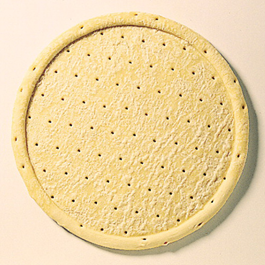
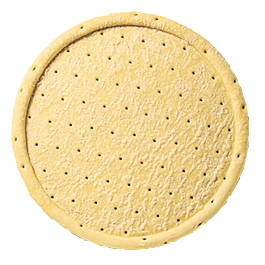
Auto stash before merge of "master" and "origin/master"

diff --git a/index.html b/index.html
@@ -8,23 +8,13 @@
 
 <body>
     <div id='oasisPizza'>
-        <ul>
-            <li id="logo">Logo</li>
-            <li>
-                <a href="#">Meat Lovers</a>
-            </li>
-            <li>
-                <a href="#">Pepperoni Lovers</a>
-            </li>
-            <li>
-                <a href="#">Hawaiian</a>
-            </li>
-            <li>
-                <a href="#">Supreme</a>
-            </li>
-            <li>
-                <a href="#">The Beast</a>
-            </li>
+        <ul id='nav'>
+            <li id='start'><img id='logo' src="Images/Logo/OasisPizza.png" /></li>
+            <li><a href="#">Meat Lovers</a></li>
+            <li><a href="#">Pepperoni Lovers</a></li>
+            <li><a href="#">Hawaiian</a></li>
+            <li><a href="#">Supreme</a></li>
+            <li><a href="#">The Beast</a></li>
         </ul>
 
         <div id="mainContainer">

diff --git a/style.css b/style.css
@@ -12,7 +12,7 @@ ul {
 
 li {
     float: left;
-    width: 18%; 
+    width: 18%;
 }
 
 li a {
@@ -27,9 +27,18 @@ li a:hover {
     background-color: rgb(218, 172, 172);
 }
 
-#logo{
-    color: white;
+#nav {
+    height: 2%;
+}
+
+#start {
     width: 10%;
+    height: 100%;
+}
+
+#logo {
+    height: 30%;
+    width: 30%;
 }
 
 #mainContainer {
@@ -43,6 +52,7 @@ li a:hover {
 
 #rightContainer {
     width: 50%;
+    height: 100%;
 }
 
 #buttons {
@@ -60,6 +70,11 @@ li a:hover {
 #pizza {
     padding: 7px;
     margin: 7px;
+    background-image: url(Images/Crust/Crust.png);
+    background-size: cover;
+    height: 350px;
+    width: 350px;
+    background-repeat: no-repeat;
 }
 
 #price {
